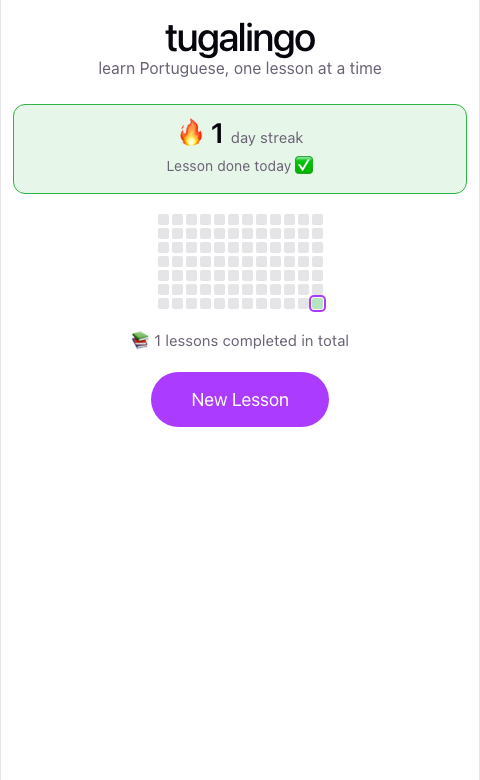
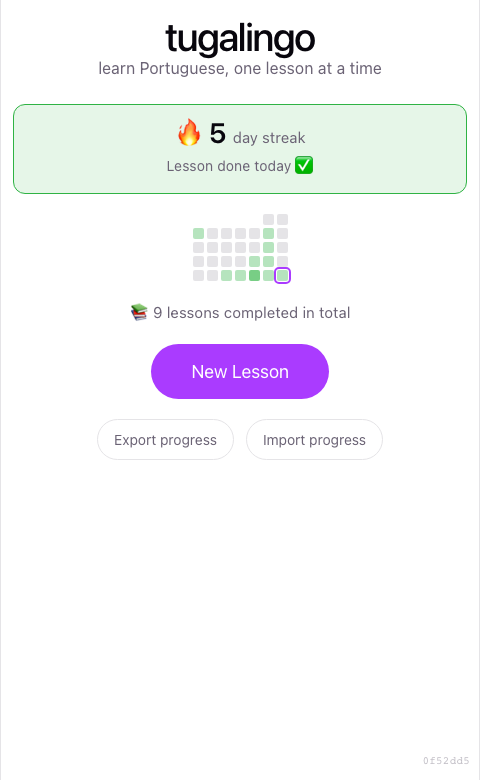
Redesign activity heatmap: fixed 30-day grid, today always bottom-right
The previous GitHub-style layout (weeks as columns) didn't have a
stable shape - its column count flickered between 12 and 13 depending
on the day of the week, with a stray near-empty column some days.

Switched to a simple 30-day window wrapped into rows of 7, oldest at
top-left. Today is now always the last cell, and since consecutive
rows are exactly 7 days apart, every column still lines up with one
consistent weekday throughout.

Changed region(s): [[0.25, 0.2769, 0.75, 0.5846], [0.375, 0.1538, 0.625, 0.1846], [0.9375, 0.9538, 0.9688, 0.9846]]

diff --git a/src/components/ActivityHeatmap.jsx b/src/components/ActivityHeatmap.jsx
@@ -1,7 +1,7 @@
-import { dateKey, lastNDays } from '../lib/dates'
+import { dateKey, recentDays } from '../lib/dates'
 
-const WEEKS = 12
-const DAYS = WEEKS * 7
+const DAYS = 30
+const COLUMNS = 7
 
 function levelFor(count) {
   if (!count) return 0
@@ -13,22 +13,24 @@ function levelFor(count) {
 export default function ActivityHeatmap({ activityByDate }) {
   const today = new Date()
   const todayKey = dateKey(today)
-  const days = lastNDays(DAYS, today)
+  const days = recentDays(DAYS, today)
 
-  // Pad the front so the first column starts on a Sunday, like GitHub's graph.
-  const padding = Array.from({ length: days[0].getDay() }, () => null)
+  // Pad the front (not the end) so today is always the very last cell —
+  // consecutive rows are exactly 7 days apart, so each column still lines up
+  // with one consistent weekday throughout, ending on today's weekday.
+  const padding = Array.from({ length: (COLUMNS - (days.length % COLUMNS)) % COLUMNS }, () => null)
   const cells = [...padding, ...days]
-  const weeks = []
-  for (let i = 0; i < cells.length; i += 7) {
-    weeks.push(cells.slice(i, i + 7))
+  const rows = []
+  for (let i = 0; i < cells.length; i += COLUMNS) {
+    rows.push(cells.slice(i, i + COLUMNS))
   }
 
   return (
     <div className="heatmap">
       <div className="heatmap__grid">
-        {weeks.map((week, wi) => (
-          <div className="heatmap__week" key={wi}>
-            {week.map((day, di) => {
+        {rows.map((row, ri) => (
+          <div className="heatmap__row" key={ri}>
+            {row.map((day, di) => {
               if (!day) return <div className="heatmap__cell heatmap__cell--empty" key={di} />
               const key = dateKey(day)
               const count = activityByDate[key]?.lessonsCompleted ?? 0

diff --git a/src/App.css b/src/App.css
@@ -135,12 +135,12 @@
 
 .heatmap__grid {
   display: flex;
+  flex-direction: column;
   gap: 3px;
 }
 
-.heatmap__week {
+.heatmap__row {
   display: flex;
-  flex-direction: column;
   gap: 3px;
 }
 

diff --git a/src/lib/dates.js b/src/lib/dates.js
@@ -5,7 +5,7 @@ export function dateKey(date = new Date()) {
   return `${y}-${m}-${d}`
 }
 
-export function lastNDays(n, endDate = new Date()) {
+export function recentDays(n, endDate = new Date()) {
   const days = []
   for (let i = n - 1; i >= 0; i--) {
     const d = new Date(endDate)

diff --git a/docs/architecture.md b/docs/architecture.md
@@ -19,7 +19,7 @@
 - **`src/lib/emoji.js`** — `pickEmoji(word)` picks one emoji from a word's `emoji` plus any `emojiVariants` each time it's asked, so a word with more than one valid emoji (e.g. a cat) doesn't always show the same glyph.
 - **`src/lib/questionTypes/`** is the question-type registry — see [Question types](#question-types) below.
 - **`src/lib/round.js`** picks a random target + 3 distractors from whatever pool it's handed; used by any multiple-choice question type (`emoji-match`, `reverse-match`, `sentence-fill`, `compound-match`).
-- **`src/lib/dates.js`** has the date helpers shared by the progress hook and the home screen: `dateKey`, `lastNDays`, and `currentStreak`.
+- **`src/lib/dates.js`** has the date helpers shared by the progress hook and the home screen: `dateKey`, `recentDays`, and `currentStreak`.
 - **`src/lib/progressFile.js`** — `downloadProgress(progress)` and `parseProgressFile(file)`, the export/import logic (see [Progress export/import](#progress-exportimport) below).
 - **`src/hooks/useProgress.js`** owns everything persisted: the full history of completed lessons and which calendar days had activity. It exposes two write paths — `recordLessonCompletion(correct, total)`, called once when a lesson finishes, and `replaceProgress(newProgress)`, called on a successful import. Exiting a lesson early calls neither.
 - **`src/App.jsx`** is a tiny screen router with three states: `home`, `lesson`, `results`. It's also where a lesson's content (`buildLessonContext`) and unlocked question types (`activeQuestionTypes`) are picked the moment "New Lesson" is pressed, and where the streak shown on the results screen is computed. No game logic lives here beyond that wiring.
@@ -89,7 +89,7 @@ src/
       sentenceFill.js            # verb conjugation fill-in-the-blank
       index.js                    # question-type registry: generateQuestion(), checkAnswer()
     round.js               # pickRound() / shuffle()
-    dates.js                # dateKey(), lastNDays(), currentStreak()
+    dates.js                # dateKey(), recentDays(), currentStreak()
     progressFile.js          # downloadProgress(), parseProgressFile()
   components/
     Home.jsx                # home screen: streak + heatmap + New Lesson + export/import

diff --git a/docs/design.md b/docs/design.md
@@ -88,7 +88,7 @@ The badge is redundant with the article on purpose — repetition of the same si
 The goal here is explicitly to create daily pressure — the player should feel like skipping a day costs them something, the same way Duolingo's streak does. Two things work together on the home screen:
 
 - **Streak** — the number of consecutive days with at least one completed lesson, shown large at the top (`🔥 N day streak`). If today hasn't had a lesson yet, the streak from yesterday is still shown as "alive" with a nudge ("Do a lesson today to keep your streak!") rather than immediately showing 0 — the streak only actually breaks once a day passes with nothing done. This is computed fresh from the activity history every time (`currentStreak` in `src/lib/dates.js`), not stored as its own number, so it can never drift out of sync with the underlying daily record.
-- **Activity heatmap** — the last 12 weeks, one cell per day, shaded by how many lessons were done. This is the memory the streak number doesn't have: a broken streak still leaves a visible record of everything before the gap, rather than erasing it. The streak creates the daily pressure; the heatmap is the honest longer-term picture underneath it.
+- **Activity heatmap** — the last 30 days, one cell per day, shaded by how many lessons were done, wrapped into rows of 7 with today always the last cell. This is the memory the streak number doesn't have: a broken streak still leaves a visible record of everything before the gap, rather than erasing it. The streak creates the daily pressure; the heatmap is the honest longer-term picture underneath it.
 
 A lesson only counts for the streak/heatmap if it's completed — see [above](#new-lesson-not-a-lesson-tree) on why quitting mid-lesson doesn't count.
 

diff --git a/docs/ux-ui.md b/docs/ux-ui.md
@@ -11,7 +11,7 @@ Deliberately plain: white background, one accent color (purple), system font, no
 This is the first thing the player sees, and everything on it is progress-driven:
 
 - **Streak header** — a large `🔥 N day streak`, with a status line underneath that changes depending on the day: *"Do a lesson to start your streak!"* with no streak yet, *"Do a lesson today to keep your streak!"* if there's a streak but today isn't done, or *"Lesson done today ✅"* once it is (the block also turns green at that point). This is the single most prominent thing on the screen on purpose — see [design.md](design.md#streak--daily-activity) for why.
-- **Activity heatmap** — the last 12 weeks, one cell per day, shaded by how many lessons were completed that day. Today's cell has a purple outline so it's easy to find. Unlike the streak number, this never resets — it's the honest longer-term record even across a broken streak.
+- **Activity heatmap** — the last 30 days, one cell per day, shaded by how many lessons were completed that day. Today's cell has a purple outline so it's easy to find, and it's always the very last cell (bottom-right) — the grid reads chronologically, oldest at top-left, wrapped into rows of 7 (`recentDays` in `src/lib/dates.js`), with the leftover days from the incomplete first week padded as empty cells at the top-left rather than the grid's width changing from day to day. Because rows are always exactly 7 days apart, every column still lines up with one consistent weekday all the way down. Unlike the streak number, this never resets — it's the honest longer-term record even across a broken streak.
 - **Lifetime stat** — total lessons completed, ever.
 - **New Lesson button** — the only way to start playing. There's no lesson list, no numbering, no map to navigate.
 - **Export/Import progress** — two small secondary buttons below New Lesson, deliberately understated (plain outlined buttons, not accent-colored) so they don't compete with the primary action. See [below](#export--import-progress).